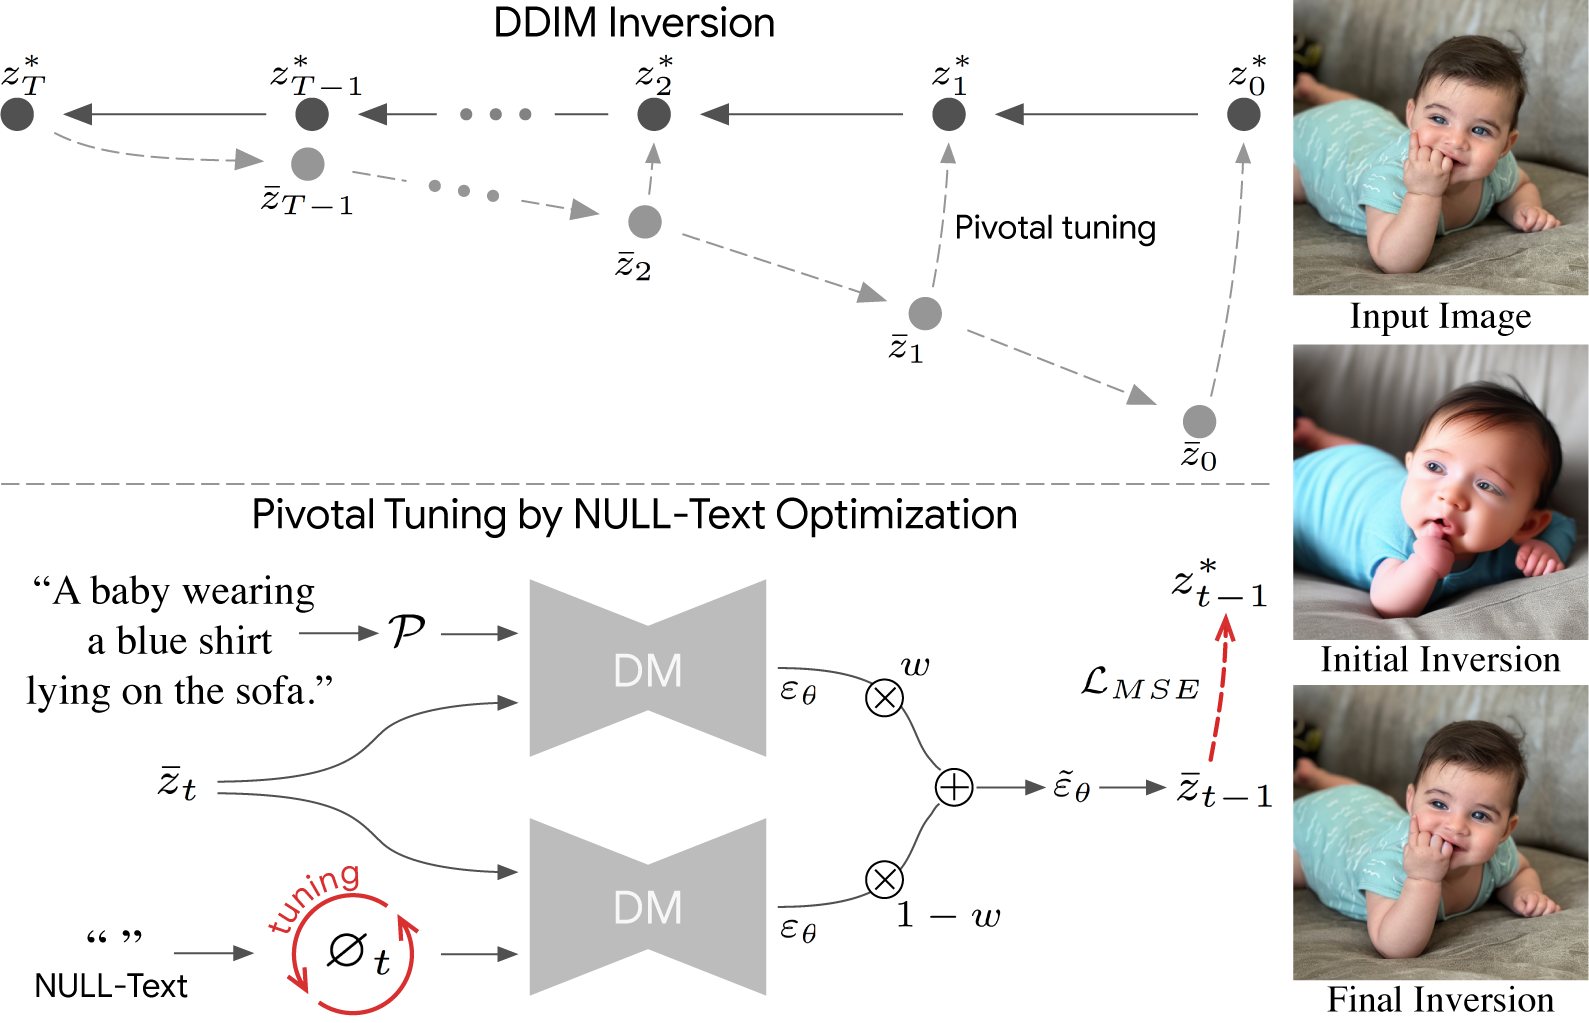
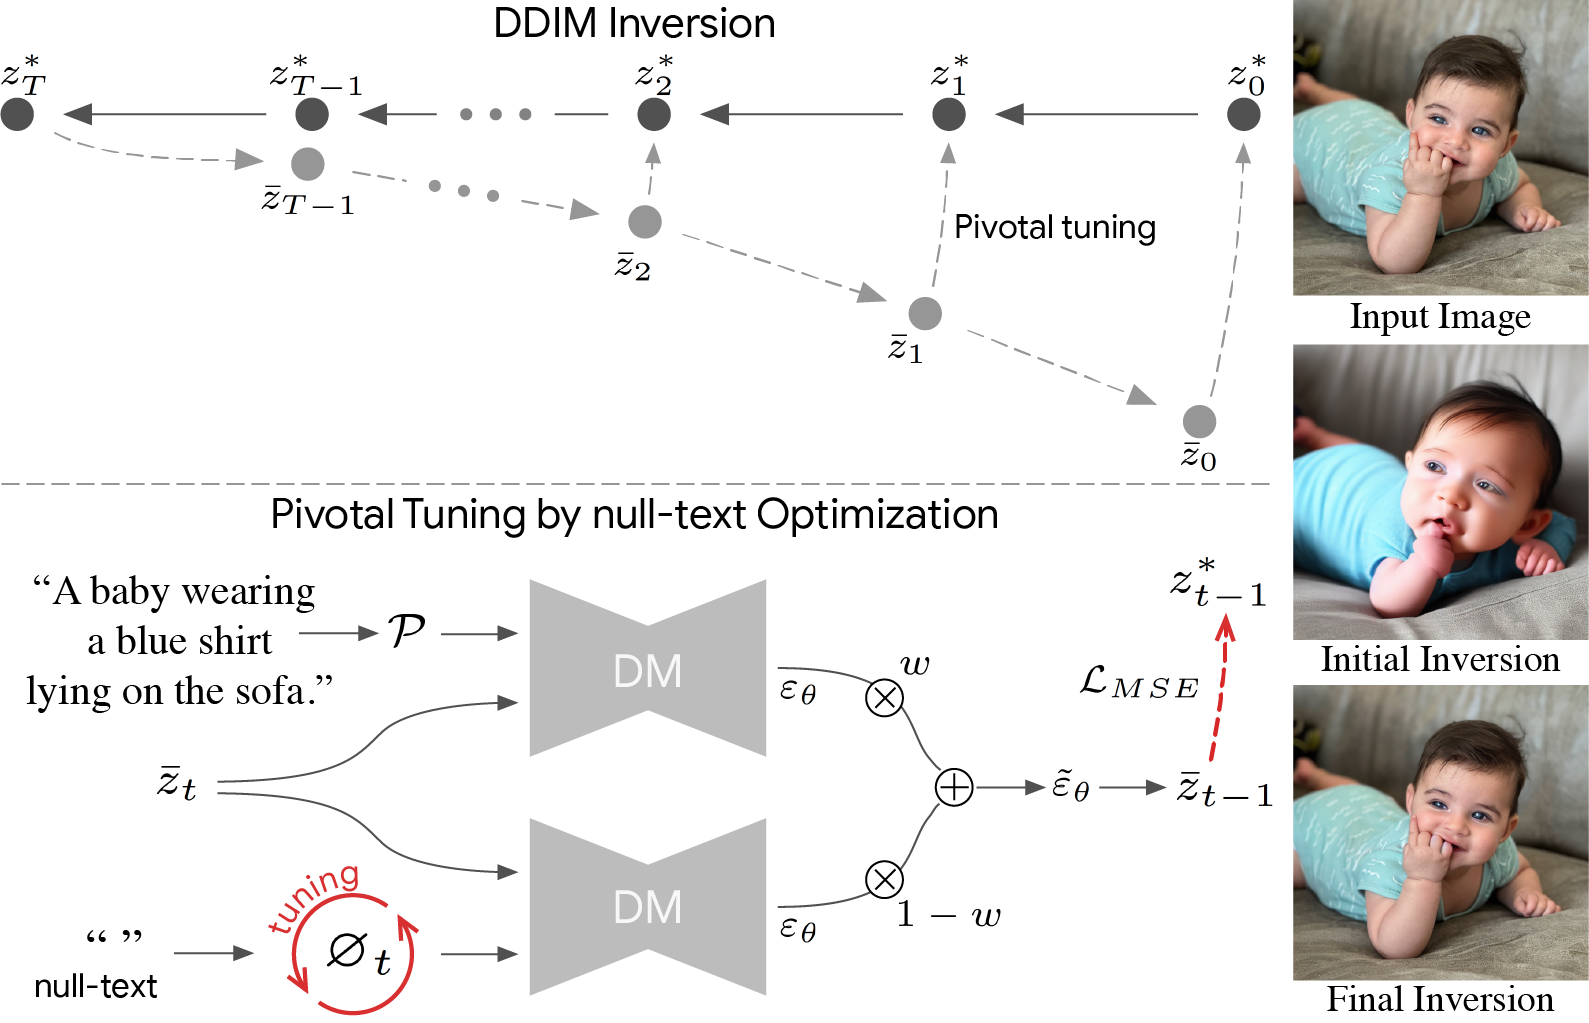
lower null

diff --git a/index.html b/index.html
@@ -1,13 +1,13 @@
 <html>
 <head>
 <meta http-equiv="Content-Type" content="text/html; charset=UTF-8">
-<title>NULL-text Inversion for Editing Real Images using Guided Diffusion Models</title>
+<title>Null-text Inversion for Editing Real Images using Guided Diffusion Models</title>
 <link href="style.css" rel="stylesheet">
 </head>
 
 <body>
 <div class="content">
-  <h1>NULL-text Inversion for Editing Real Images using Guided Diffusion Models</h1>
+  <h1>Null-text Inversion for Editing Real Images using Guided Diffusion Models</h1>
   <p id="authors"> <a href="https://rmokady.github.io/">Ron Mokady<sup>* 1,2</sup></a> <a href="https://amirhertz.github.io/">Amir Hertz<sup>* 1,2</sup></a> <a href="https://kfiraberman.github.io/">Kfir Aberman<sup>1</sup></a> <a href="https://research.google/people/106214/">Yael Pritch<sup>1</sup></a> <a href="https://www.cs.tau.ac.il/~dcor/">Daniel Cohen-Or<sup>1,2</sup></a><br>
 
   <span style="font-size: 16px"><br>
@@ -40,15 +40,15 @@
 <div class="content">
 
 
-  <h2>NULL-Text Inversion</h2>
+  <h2>Null-text Inversion</h2>
      <p>
 
 On top: We first apply an initial DDIM inversion on the input image which estimates a diffusion trajectory (top trajectory). Starting the diffusion process from the last latent code results in unsatisfying reconstruction (bottom trajectory) as the intermediate codes become farther away from the original trajectory. We use the initial trajectory as a pivot for our optimization which brings the diffusion backward trajectory closer to the original image.
 
 <img class="summary-img" src="./files/diagram-01.png" style="width:80%;"><br>
-Bottom: NULL-text optimization for
+Bottom: null-text optimization for
 timestamp t. Recall that classifier-free guidance consists of performing the noise prediction twice – using text condition embedding
-and unconditionally using NULL-text embedding ∅ (bottom-left).
+and unconditionally using null-text embedding ∅ (bottom-left).
 Then, these are extrapolated with guidance scale w (middle). We
 optimize only the unconditional embeddings ∅<sub>t</sub> by employing a reconstruction MSE loss (in red) between the predicated latent code to the pivot.
 <p>
@@ -92,7 +92,7 @@ The cross-attention maps, which were obtained after the inversion, provide intui
 <!--<div class="content">-->
 <!--  <h4>BibTex</h4>-->
 <!--  <p> @article{???,<br>-->
-<!--  &nbsp;&nbsp;title={NULL-text inversion for editing real Images using Guided Diffusion Models},<br>-->
+<!--  &nbsp;&nbsp;title={Null-text inversion for editing real Images using Guided Diffusion Models},<br>-->
 <!--  &nbsp;&nbsp;author={Mokady, Ron and Hertz, Amir and Aberman, Kfir and Pritch, Yael and Cohen-Or, Daniel},<br>-->
 <!--  &nbsp;&nbsp;booktitle={arXiv preprint arXiv:2211.?????},<br>-->
 <!--  &nbsp;&nbsp;year={2022}<br>-->
